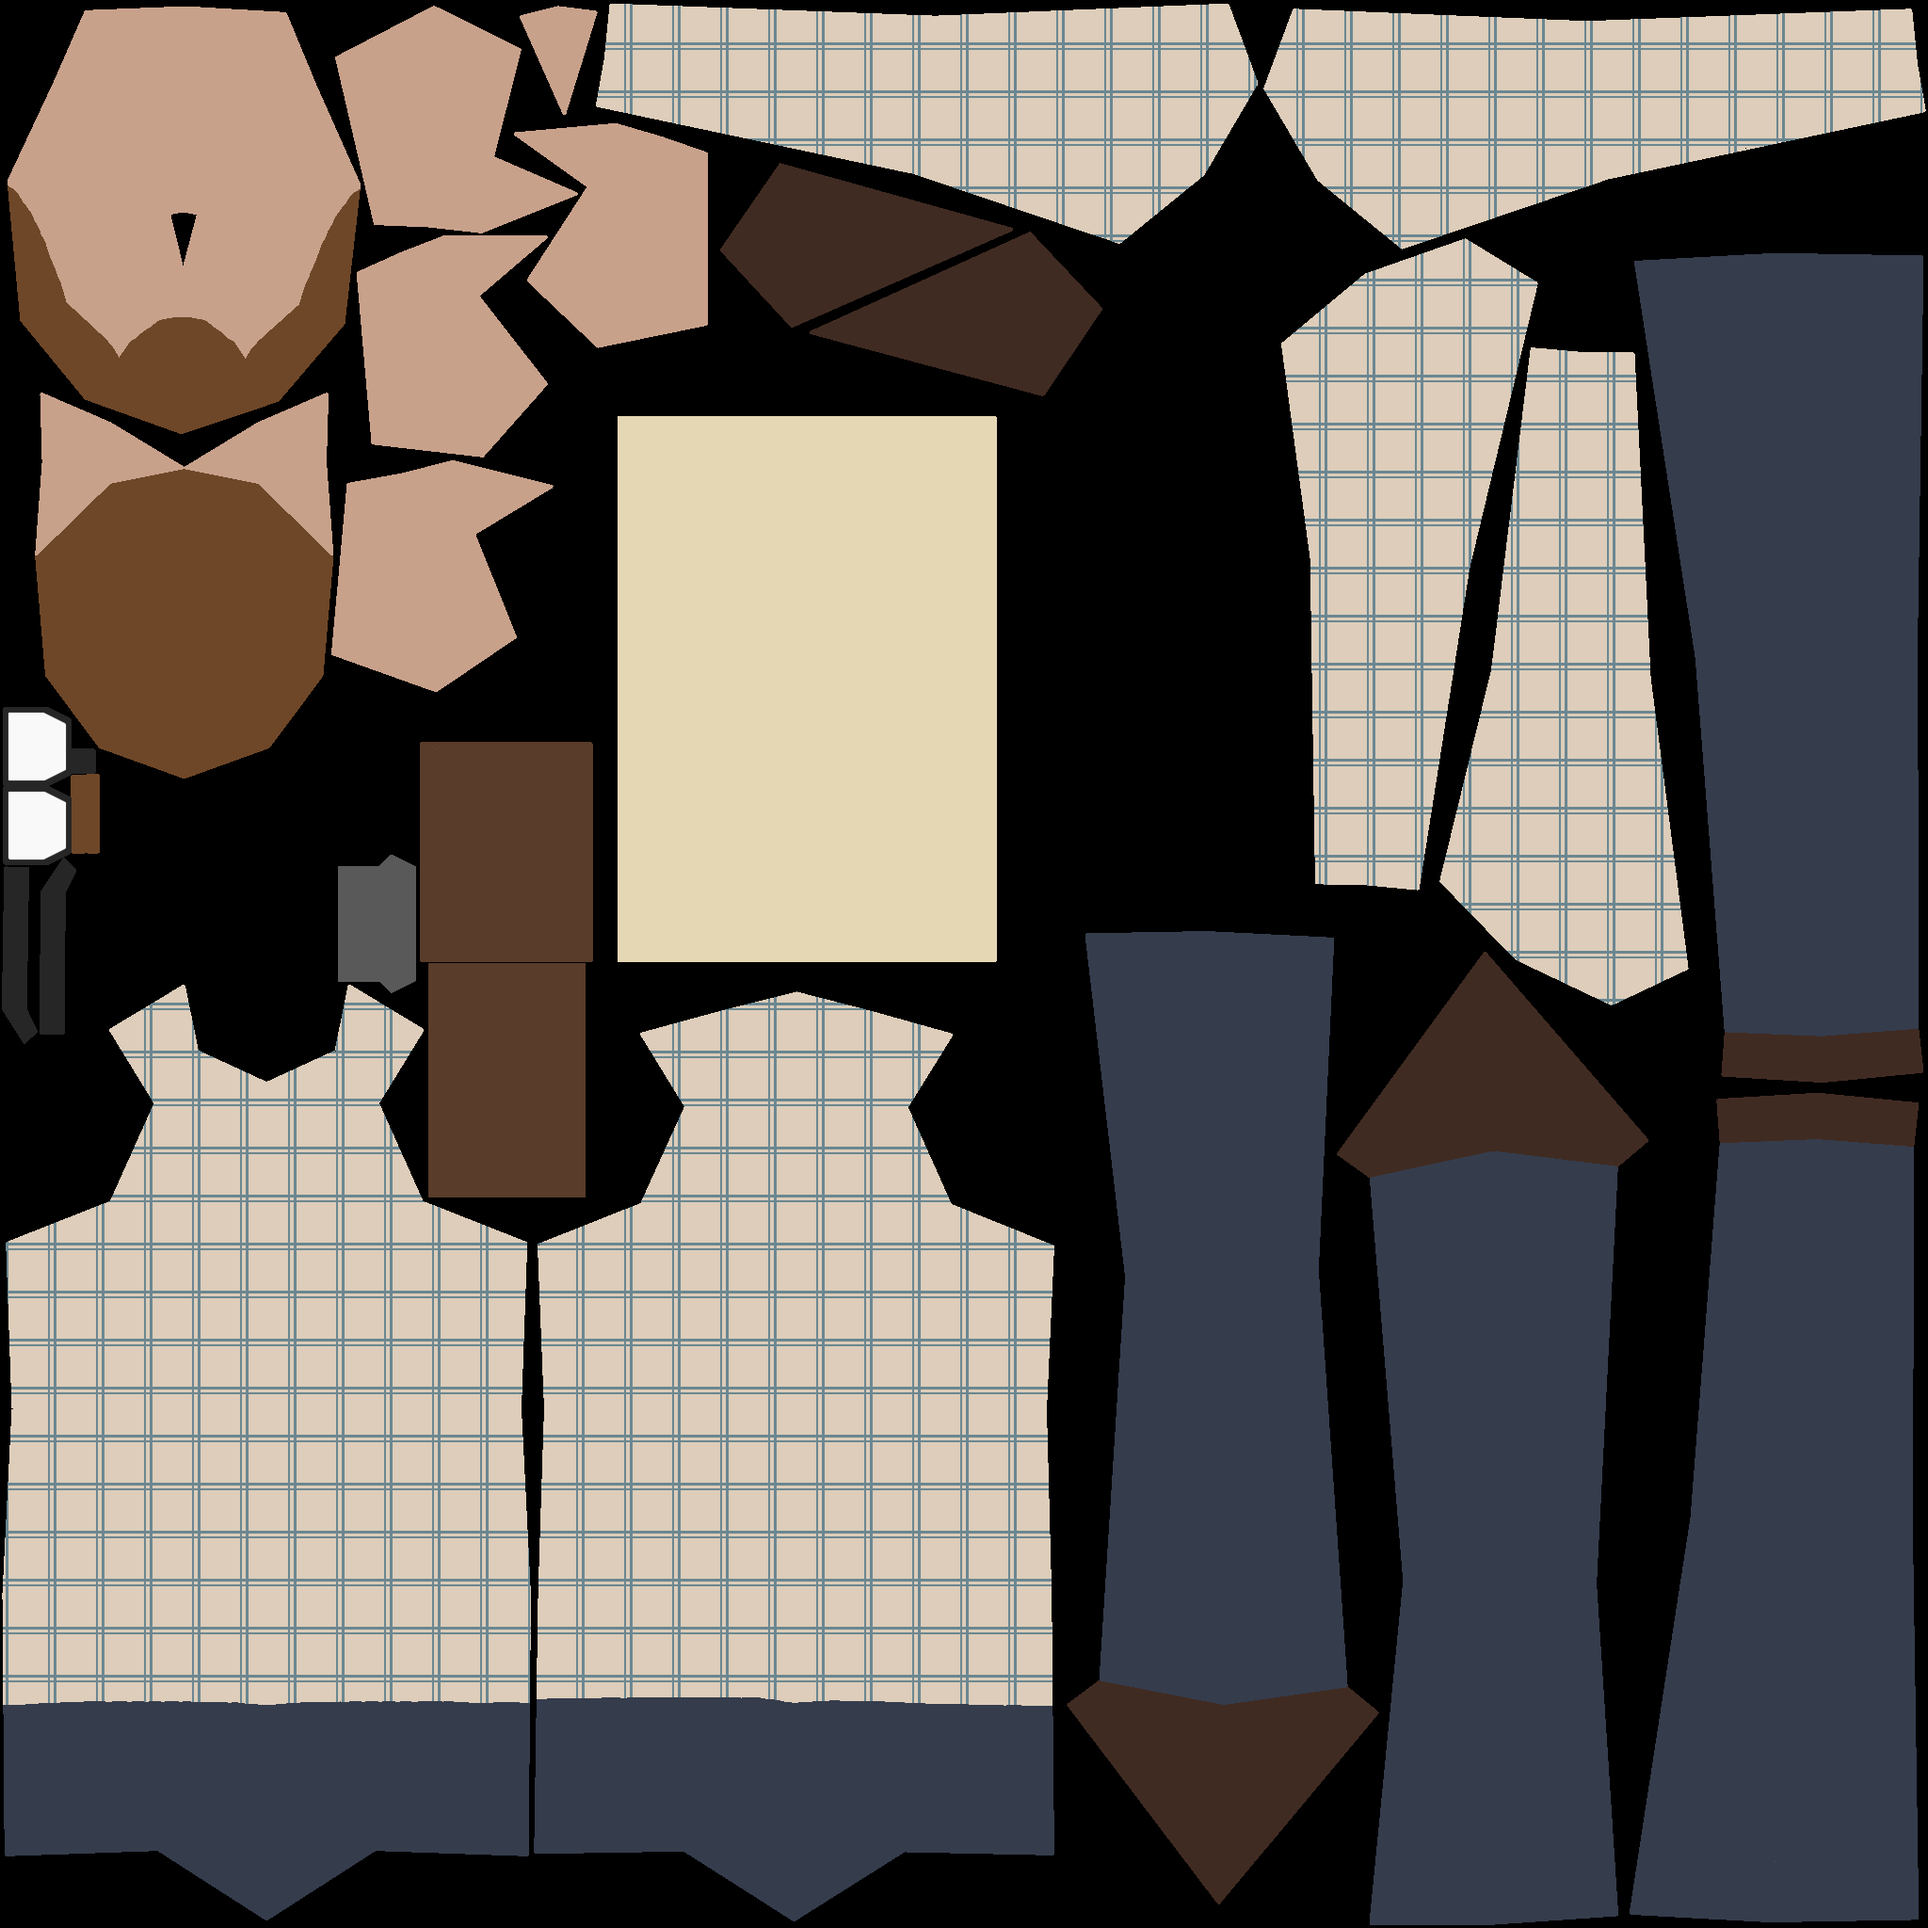
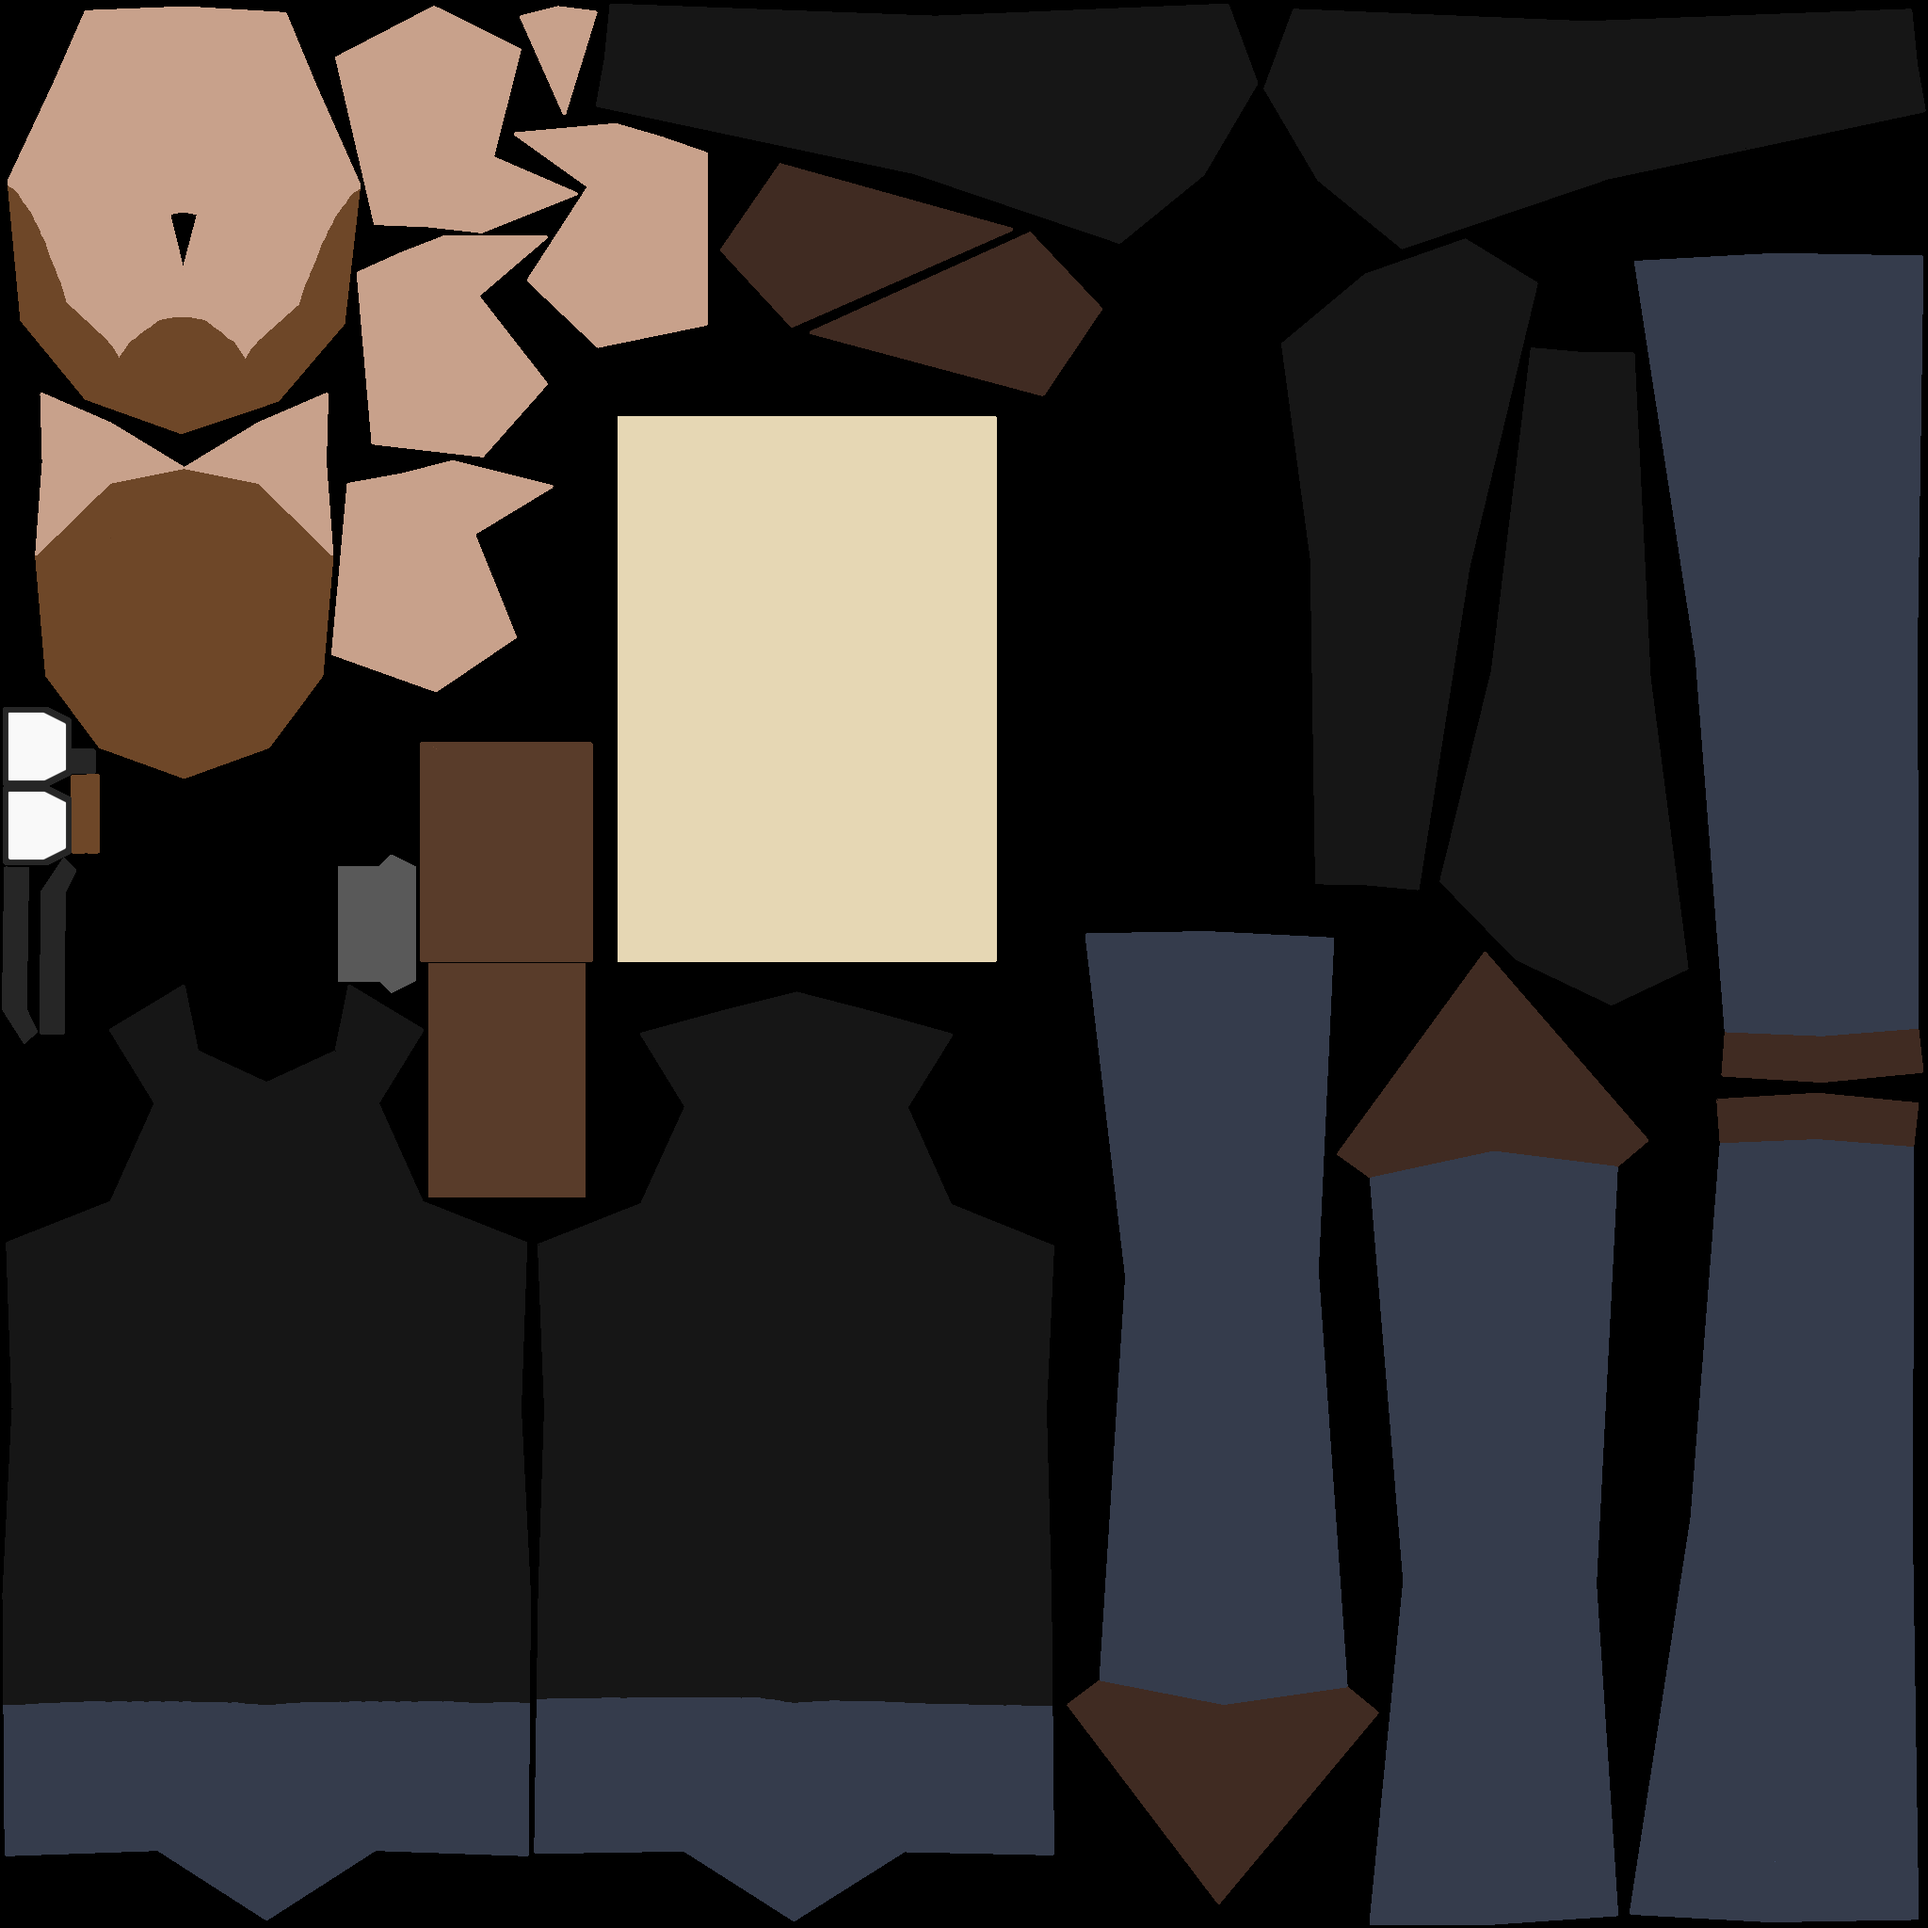
Make tether movement direction independant of camera angle, recolour architect's shirt

Changed region(s): [[0.0, 0.5, 0.5625, 0.9062], [0.3125, 0.0, 1.0, 0.5312]]

diff --git a/Assets/Scripts/MouseMovement.cs b/Assets/Scripts/MouseMovement.cs
@@ -214,14 +214,14 @@ public class MouseMovement : MonoBehaviour
         {
             Vector3 lineDir;
             Vector3 closestPoint = tether.GetClosestPoint(transform.position, out lineDir);
-            Vector3 cameraDir = mainCamera.transform.forward;
-
-            Vector3 dir = lineDir * (Vector3.Dot(lineDir, cameraDir) > 0 ? 1 : -1);
+            //Vector3 cameraDir = mainCamera.transform.forward;
+            int dirSwitch = movementInput > 0 ? 1 : -1;
+            Vector3 dir = -lineDir;// * (Vector3.Dot(lineDir, cameraDir) > 0 ? 1 : -1);
 
             transform.position += movementInput * dir * speed * Time.deltaTime;
             transform.position = tether.GetClosestPoint(transform.position, out lineDir);
 
-            if(tether.shouldDrop(transform.position, dir))
+            if(tether.shouldDrop(transform.position, dir * dirSwitch))
             {
                 tether = null;
                 tethered = false;
@@ -231,7 +231,7 @@ public class MouseMovement : MonoBehaviour
 
             // Visual stuff
             playerVisual.transform.rotation = new Quaternion();
-            playerVisual.transform.LookAt(transform.position + dir);
+            playerVisual.transform.LookAt(transform.position + dir * dirSwitch);
 
             Vector3 mouseDownAdjusted = tether.mouseDown;
             float scalar = Vector3.Dot(playerVisual.transform.forward, mouseDownAdjusted);
